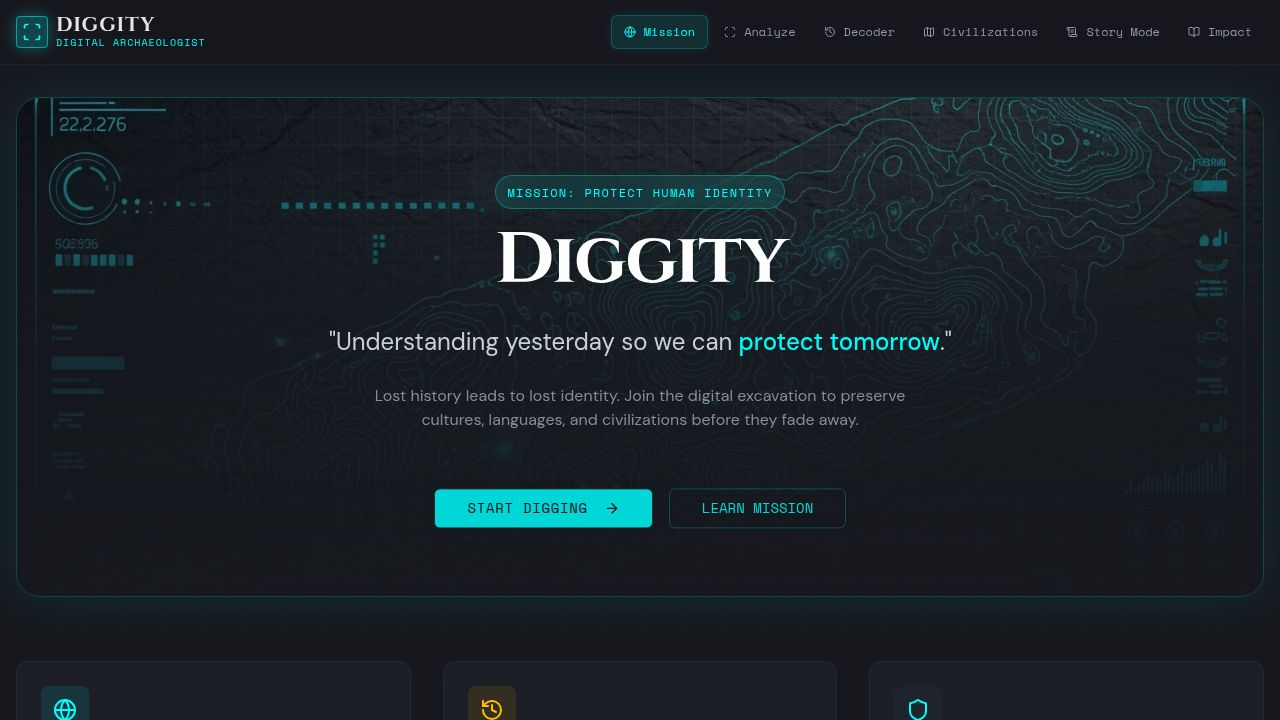
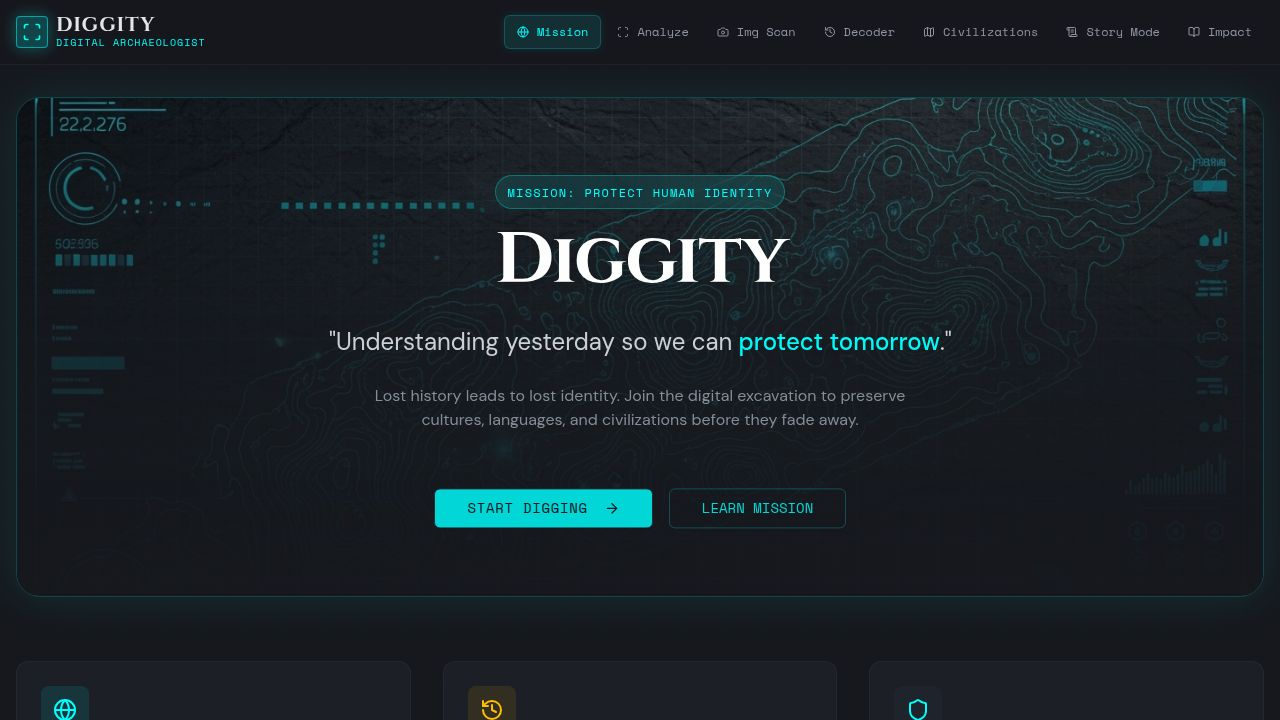
Add a feature to analyze artifact images using user-provided tags
Adds a new page and routing for the Artifact Image Analyzer, including file upload, user-guided calibration via material and category selection, and simulated analysis with results display. Integrates 'Camera' icon into navigation.

Replit-Commit-Author: Agent
Replit-Commit-Session-Id: b01dffaa-36b3-41b1-9bee-b54746c97a60
Replit-Commit-Checkpoint-Type: full_checkpoint
Replit-Commit-Event-Id: c39e9399-d0a9-47b4-8483-76cc910a6cc6
Replit-Commit-Screenshot-Url: https://storage.googleapis.com/screenshot-production-us-central1/c595bfd0-a84b-4913-85c1-8cdd85d5b620/b01dffaa-36b3-41b1-9bee-b54746c97a60/wrwPGgu
Replit-Helium-Checkpoint-Created: true

Changed region(s): [[0.375, 0.0, 0.625, 0.0917]]

diff --git a/client/src/pages/Analyzer.tsx b/client/src/pages/Analyzer.tsx
@@ -1,0 +1,279 @@
+import { useState, useRef } from "react";
+import { motion, AnimatePresence } from "framer-motion";
+import { Button } from "@/components/ui/button";
+import { Card, CardContent, CardHeader, CardTitle } from "@/components/ui/card";
+import { Label } from "@/components/ui/label";
+import { Select, SelectContent, SelectItem, SelectTrigger, SelectValue } from "@/components/ui/select";
+import { Upload, Camera, Scan, CheckCircle2, AlertTriangle, Search } from "lucide-react";
+import artifactsData from "@/data/artifacts.json";
+import civsData from "@/data/civilizations.json";
+
+export default function Analyzer() {
+  const [imagePreview, setImagePreview] = useState<string | null>(null);
+  const [isScanning, setIsScanning] = useState(false);
+  const [step, setStep] = useState<"upload" | "verify" | "result">("upload");
+  const fileInputRef = useRef<HTMLInputElement>(null);
+
+  // Form State
+  const [material, setMaterial] = useState("");
+  const [category, setCategory] = useState("");
+  
+  // Result State
+  const [matchedArtifact, setMatchedArtifact] = useState<typeof artifactsData[0] | null>(null);
+  const [matchedCiv, setMatchedCiv] = useState<typeof civsData[0] | null>(null);
+
+  const handleFileChange = (e: React.ChangeEvent<HTMLInputElement>) => {
+    const file = e.target.files?.[0];
+    if (file) {
+      const url = URL.createObjectURL(file);
+      setImagePreview(url);
+      setStep("verify");
+    }
+  };
+
+  const handleAnalyze = () => {
+    setIsScanning(true);
+    
+    // Simulate complex analysis
+    setTimeout(() => {
+      // Simple logic to find a match based on user input
+      // In a real app, this would be AI. Here we simulate the AI asking the user for help, then "confirming".
+      
+      let match = artifactsData.find(a => 
+        (a.material.toLowerCase().includes(material.toLowerCase())) ||
+        (a.type.toLowerCase().includes(category.toLowerCase()))
+      );
+
+      // Fallback if no specific match, just pick one based on material or random
+      if (!match) {
+        match = artifactsData[0]; // Default to tablet
+      }
+
+      const civ = civsData.find(c => c.id === match?.civilizationId);
+
+      setMatchedArtifact(match || null);
+      setMatchedCiv(civ || null);
+      setIsScanning(false);
+      setStep("result");
+    }, 2500);
+  };
+
+  const reset = () => {
+    setImagePreview(null);
+    setStep("upload");
+    setMaterial("");
+    setCategory("");
+    setMatchedArtifact(null);
+  };
+
+  return (
+    <div className="max-w-4xl mx-auto space-y-8 pb-12">
+      <div className="text-center space-y-4">
+        <h1 className="text-4xl font-display font-bold">Artifact Image Analyzer</h1>
+        <p className="text-muted-foreground font-mono">
+          Upload an artifact image to identify its origin and purpose.
+        </p>
+      </div>
+
+      <div className="grid md:grid-cols-2 gap-8 items-start">
+        {/* Left Column: Image / Scanner */}
+        <Card className="overflow-hidden bg-black/50 border-primary/20 relative min-h-[400px] flex flex-col items-center justify-center">
+          <AnimatePresence mode="wait">
+            {!imagePreview ? (
+              <motion.div 
+                key="upload-placeholder"
+                initial={{ opacity: 0 }}
+                animate={{ opacity: 1 }}
+                exit={{ opacity: 0 }}
+                className="text-center p-8 space-y-4"
+              >
+                <div className="w-20 h-20 rounded-full bg-primary/10 flex items-center justify-center mx-auto border border-dashed border-primary/30">
+                  <Camera className="w-10 h-10 text-primary/50" />
+                </div>
+                <div>
+                  <h3 className="text-lg font-bold text-foreground">Upload Artifact</h3>
+                  <p className="text-sm text-muted-foreground">JPG or PNG formats supported</p>
+                </div>
+                <div className="flex gap-2 justify-center">
+                  <Button onClick={() => fileInputRef.current?.click()} variant="outline" className="border-primary/50 text-primary hover:bg-primary/10">
+                    <Upload className="w-4 h-4 mr-2" /> Select File
+                  </Button>
+                  <input 
+                    type="file" 
+                    ref={fileInputRef} 
+                    className="hidden" 
+                    accept="image/*"
+                    onChange={handleFileChange}
+                  />
+                </div>
+              </motion.div>
+            ) : (
+              <motion.div 
+                key="preview"
+                className="relative w-full h-full min-h-[400px]"
+              >
+                <img src={imagePreview} alt="Preview" className="w-full h-full object-cover opacity-80" />
+                
+                {/* Scanning Overlay */}
+                {isScanning && (
+                  <div className="absolute inset-0 z-10 bg-primary/10">
+                    <div className="scan-line" />
+                    <div className="absolute inset-0 flex items-center justify-center">
+                       <div className="bg-black/80 backdrop-blur border border-primary/50 p-4 rounded text-primary font-mono text-xs animate-pulse">
+                         ANALYZING VISUAL MATRICES...
+                       </div>
+                    </div>
+                  </div>
+                )}
+
+                {/* Grid Overlay */}
+                <div className="absolute inset-0 pointer-events-none hologram-grid opacity-30" />
+              </motion.div>
+            )}
+          </AnimatePresence>
+        </Card>
+
+        {/* Right Column: Controls & Results */}
+        <div className="space-y-6">
+          <AnimatePresence mode="wait">
+            {step === "upload" && (
+              <motion.div 
+                key="step-upload"
+                initial={{ opacity: 0, x: 20 }}
+                animate={{ opacity: 1, x: 0 }}
+                exit={{ opacity: 0, x: -20 }}
+              >
+                <Card>
+                  <CardHeader>
+                    <CardTitle className="font-display">Why Digital Analysis?</CardTitle>
+                  </CardHeader>
+                  <CardContent className="space-y-4">
+                    <p className="text-sm text-muted-foreground leading-relaxed">
+                      Physical handling of artifacts accelerates degradation. Oils from hands, humidity changes, and accidental drops can destroy history forever.
+                    </p>
+                    <div className="p-4 rounded bg-primary/5 border border-primary/20 flex gap-3">
+                      <CheckCircle2 className="w-5 h-5 text-primary shrink-0" />
+                      <p className="text-xs text-foreground/80">
+                        Digital analysis reduces physical handling and helps preserve artifacts for the future.
+                      </p>
+                    </div>
+                  </CardContent>
+                </Card>
+              </motion.div>
+            )}
+
+            {step === "verify" && (
+              <motion.div
+                key="step-verify"
+                initial={{ opacity: 0, x: 20 }}
+                animate={{ opacity: 1, x: 0 }}
+                exit={{ opacity: 0, x: -20 }}
+                className="space-y-4"
+              >
+                <Card>
+                  <CardHeader>
+                    <CardTitle className="font-mono text-sm uppercase text-primary flex items-center gap-2">
+                      <Search className="w-4 h-4" /> Calibrate Analysis
+                    </CardTitle>
+                  </CardHeader>
+                  <CardContent className="space-y-4">
+                    <p className="text-xs text-muted-foreground">
+                      Help the system identify key features to narrow down the search database.
+                    </p>
+
+                    <div className="space-y-2">
+                      <Label>Primary Material</Label>
+                      <Select onValueChange={setMaterial} value={material}>
+                        <SelectTrigger>
+                          <SelectValue placeholder="Select material..." />
+                        </SelectTrigger>
+                        <SelectContent>
+                          <SelectItem value="Clay">Clay / Terracotta</SelectItem>
+                          <SelectItem value="Stone">Stone / Flint</SelectItem>
+                          <SelectItem value="Gold">Gold / Metal</SelectItem>
+                          <SelectItem value="Ceramic">Ceramic / Pottery</SelectItem>
+                        </SelectContent>
+                      </Select>
+                    </div>
+
+                    <div className="space-y-2">
+                      <Label>Artifact Category</Label>
+                      <Select onValueChange={setCategory} value={category}>
+                        <SelectTrigger>
+                          <SelectValue placeholder="Select category..." />
+                        </SelectTrigger>
+                        <SelectContent>
+                          <SelectItem value="Record">Tablet / Record</SelectItem>
+                          <SelectItem value="Tool">Tool / Weapon</SelectItem>
+                          <SelectItem value="Container">Vase / Container</SelectItem>
+                          <SelectItem value="Religious">Statue / Idol</SelectItem>
+                        </SelectContent>
+                      </Select>
+                    </div>
+
+                    <Button 
+                      className="w-full mt-4 bg-primary text-primary-foreground hover:bg-primary/90"
+                      onClick={handleAnalyze}
+                      disabled={!material || !category || isScanning}
+                    >
+                      {isScanning ? "PROCESSING..." : "RUN ANALYSIS"} <Scan className="w-4 h-4 ml-2" />
+                    </Button>
+                  </CardContent>
+                </Card>
+              </motion.div>
+            )}
+
+            {step === "result" && matchedArtifact && (
+              <motion.div
+                key="step-result"
+                initial={{ opacity: 0, scale: 0.95 }}
+                animate={{ opacity: 1, scale: 1 }}
+                className="space-y-4"
+              >
+                <div className="p-4 rounded-lg bg-green-500/10 border border-green-500/30 flex items-center gap-3">
+                  <CheckCircle2 className="w-6 h-6 text-green-500" />
+                  <div>
+                    <h4 className="font-bold text-green-500 text-sm">Match Found</h4>
+                    <p className="text-xs text-green-500/80">Confidence: 94.2%</p>
+                  </div>
+                </div>
+
+                <Card>
+                  <CardHeader>
+                    <CardTitle className="font-display text-2xl">{matchedArtifact.name}</CardTitle>
+                  </CardHeader>
+                  <CardContent className="space-y-4">
+                    <div className="grid grid-cols-2 gap-4 text-sm">
+                      <div>
+                        <span className="text-muted-foreground text-xs block">ESTIMATED AGE</span>
+                        <span className="font-mono font-bold">{matchedArtifact.age}</span>
+                      </div>
+                      <div>
+                         <span className="text-muted-foreground text-xs block">CIVILIZATION</span>
+                         <span className="font-mono font-bold text-primary">{matchedCiv?.name}</span>
+                      </div>
+                      <div className="col-span-2">
+                        <span className="text-muted-foreground text-xs block">LIKELY PURPOSE</span>
+                        <p className="mt-1">{matchedArtifact.purpose}</p>
+                      </div>
+                    </div>
+
+                    <div className="pt-4 border-t border-border mt-4">
+                      <p className="text-xs text-muted-foreground italic">
+                        "{matchedArtifact.whyItMatters}"
+                      </p>
+                    </div>
+
+                    <Button variant="outline" className="w-full" onClick={reset}>
+                      Analyze Another Artifact
+                    </Button>
+                  </CardContent>
+                </Card>
+              </motion.div>
+            )}
+          </AnimatePresence>
+        </div>
+      </div>
+    </div>
+  );
+}

diff --git a/client/src/components/layout/Layout.tsx b/client/src/components/layout/Layout.tsx
@@ -1,6 +1,6 @@
 import { Link, useLocation } from "wouter";
 import { cn } from "@/lib/utils";
-import { History, Scan, Globe, BookOpen, Menu, X, ScrollText, Map } from "lucide-react";
+import { History, Scan, Globe, BookOpen, Menu, X, ScrollText, Map, Camera } from "lucide-react";
 import { useState } from "react";
 import { Button } from "@/components/ui/button";
 
@@ -11,6 +11,7 @@ export default function Layout({ children }: { children: React.ReactNode }) {
   const navItems = [
     { href: "/", label: "Mission", icon: Globe },
     { href: "/analyze", label: "Analyze", icon: Scan },
+    { href: "/image-analyzer", label: "Img Scan", icon: Camera },
     { href: "/decoder", label: "Decoder", icon: History },
     { href: "/civilizations", label: "Civilizations", icon: Map },
     { href: "/story", label: "Story Mode", icon: ScrollText },

diff --git a/client/src/App.tsx b/client/src/App.tsx
@@ -10,6 +10,7 @@ import Decoder from "@/pages/Decoder";
 import Civilizations from "@/pages/Civilizations";
 import Impact from "@/pages/Impact";
 import Story from "@/pages/Story";
+import Analyzer from "@/pages/Analyzer";
 
 function Router() {
   return (
@@ -18,6 +19,7 @@ function Router() {
         <Route path="/" component={Home} />
         <Route path="/mission" component={Home} />
         <Route path="/analyze" component={Analysis} />
+        <Route path="/image-analyzer" component={Analyzer} />
         <Route path="/decoder" component={Decoder} />
         <Route path="/civilizations" component={Civilizations} />
         <Route path="/impact" component={Impact} />
